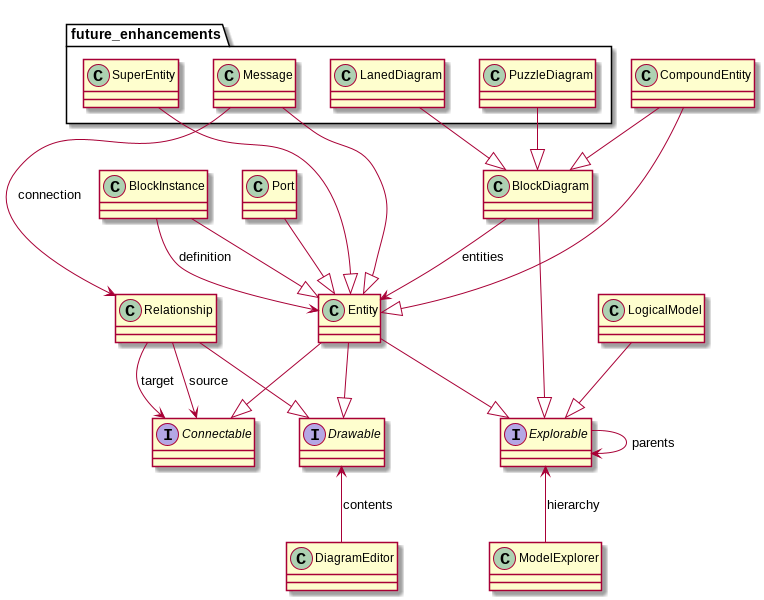
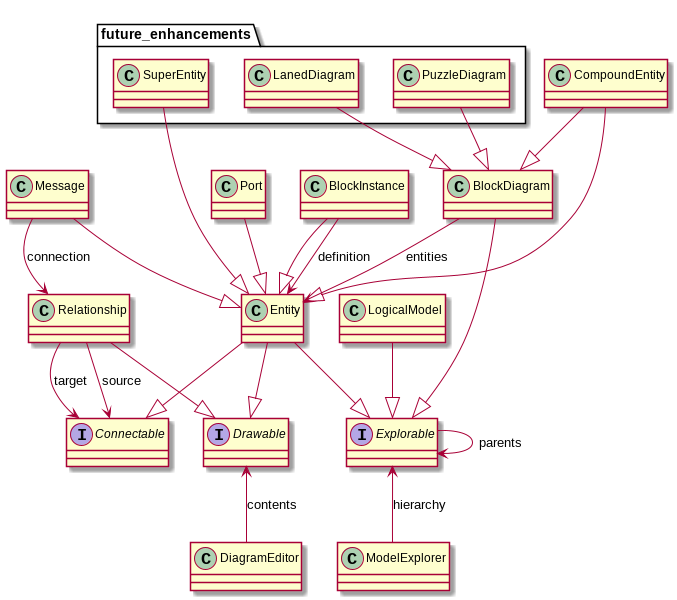
Moved the plantuml out of the documentation and into their own document.

diff --git a/doc/specification_language.md b/doc/specification_language.md
@@ -75,7 +75,8 @@ Also, the `parents` and `entities` constraints are only used at code-generation 
 
 
 Some notable details:
-* A port is just a regular Entity. The only difference between the two is how they are rendered in a diagram.
+* A Port is just a regular Entity. The only difference between the two is how they are rendered in a diagram.
+  Same for a Message.
 * Relationships are not explorable. This may change in the future. 
   In most UML tools, relationships *are* explorable, but I find that illogical.
   Is a relationship represented with the source? The target? Both?

diff --git a/TODO.md b/TODO.md
@@ -20,6 +20,7 @@
 * Get rid of mechanisms where the presence of an attribute decides actions. Replace these with (member) functions.
 
 # Future enhancements
+* Place texts with an offset, and allow that offset to be edited. Perhaps also the bounding box of the text.
 * When opening a diagram for the second time, open the existing diagram instead.
 * Support selecting multiple elements and moving them.
 * Implement selection by drawing a rectangle with the mouse.
